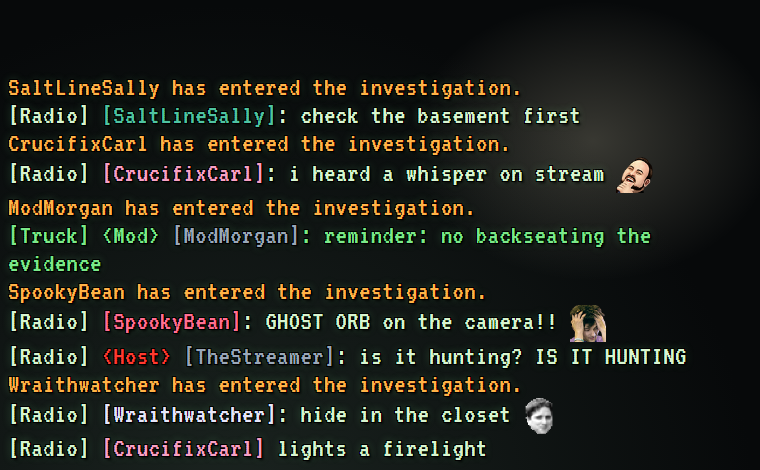
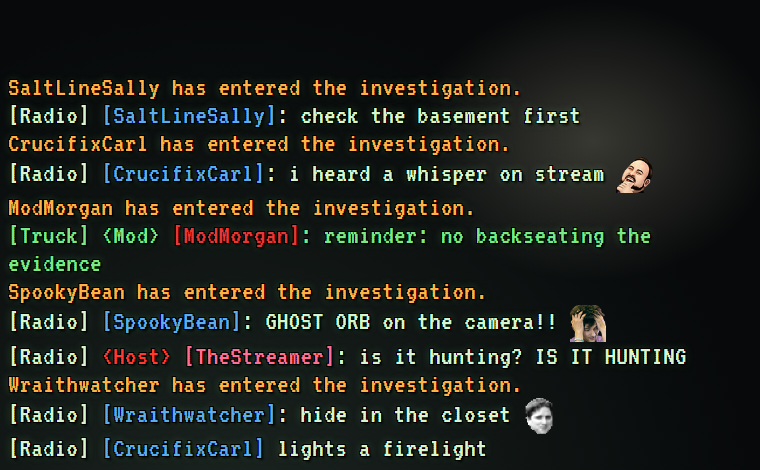
Color names by role and remove the !color command
Streamer pink, moderators red, everyone else blue.

diff --git a/phasmochat.html b/phasmochat.html
@@ -34,8 +34,6 @@ const CONFIG = {
   modPrefix: "[Truck] ",           // prefix on moderator lines (the one watching the cameras)
   joinMessage: "{name} has entered the investigation.",  // system line the first time someone chats ("" = none)
   subMessage: "{name} has signed a contract.",  // system line for a new subscriber or gift recipient ("" = none)
-  colorCommand: "!color",        // chatters type "!color Banshee", "!color the twins", "!color #ff8800" or "!color reset" ("" disables)
-  colorAliases: { twins: "The Twins", mimic: "The Mimic" },  // short names accepted by the command (lowercase key -> ghost)
   testIntervalMs: 2000,          // ?test=1 fake message interval
   colors: {
     chat: "#D8F5D0",               // chat text: pale CRT green-white
@@ -43,19 +41,14 @@ const CONFIG = {
     system: "#FFB347",             // join/sub lines: EMF amber
     gm: "#FF3B30",                 // the broadcaster's tag (gmTag): REC red
     mod: "#7CE88A",                // the moderators' tag (modTag)
-    ghosts: {                      // ghost types -> name colors (picked by hash, or with !color)
-      Spirit: "#BFD9FF", Wraith: "#9AA7B8", Phantom: "#E6E6FA", Poltergeist: "#FFD166",
-      Banshee: "#F7A1C4", Jinn: "#56C3F0", Mare: "#7B6CF6", Revenant: "#C0392B",
-      Shade: "#8E8E8E", Demon: "#FF4136", Yurei: "#A8E6CF", Oni: "#FF7F50",
-      Yokai: "#C77DFF", Hantu: "#7FDBFF", Goryo: "#4FC3A1", Myling: "#E0C3FC",
-      Onryo: "#FF6F91", "The Twins": "#FFC6FF", Raiju: "#FFF275", Obake: "#B5E48C",
-      "The Mimic": "#00F5D4", Moroi: "#9BF6FF", Deogen: "#F15BB5", Thaye: "#D4A373"
-    }
+    streamerName: "#FF6F91",       // broadcaster's name: ghostly pink
+    modName: "#E53935",            // moderators' names: red
+    userName: "#5DADEC",           // everyone else's name: flashlight blue
   }
 };
 // ================================================================
 
-// Overrides from the optional config.js (USER_CONFIG). Objects (colors, ghosts, aliases) merge; arrays replace.
+// Overrides from the optional config.js (USER_CONFIG). Objects (colors) merge; arrays replace.
 function merge(base, over) {
   for (const k in over)
     base[k] = base[k] && typeof base[k] === "object" && !Array.isArray(base[k]) ? merge(base[k], over[k]) : over[k];
@@ -69,32 +62,7 @@ const chat = document.getElementById("chat");
 chat.style.font = `${CONFIG.fontSize}px ${CONFIG.fontFamily}`;
 chat.style.textShadow = "-1px -1px 0 #000, 1px -1px 0 #000, -1px 1px 0 #000, 1px 1px 0 #000, 2px 2px 3px #000, 0 0 8px rgba(124,232,138,.35)";  // outline + faint CRT glow
 
-const classColors = Object.values(CONFIG.colors.ghosts);
 const seen = new Set();
-
-function classColor(name) {
-  let h = 5381;
-  for (const c of name.toLowerCase()) h = ((h << 5) + h + c.charCodeAt(0)) >>> 0;
-  return classColors[h % classColors.length];
-}
-
-// Per-user name colors set via the chat command; kept in OBS's browser storage so they survive restarts.
-// All local-file Browser Sources share one storage, so the key is unique to this overlay (the WoW overlay uses "nameColors").
-let custom = {};
-try { custom = JSON.parse(localStorage.getItem("phasmoNameColors") || "{}"); } catch {}
-
-function colorCommand(login, text) {
-  const cmd = CONFIG.colorCommand.toLowerCase(), t = text.trim().toLowerCase();
-  if (!cmd || (t !== cmd && !t.startsWith(cmd + " "))) return false;
-  let arg = t.slice(cmd.length).trim();
-  arg = (Object.hasOwn(CONFIG.colorAliases, arg) ? CONFIG.colorAliases[arg] : arg).toLowerCase();
-  const cls = Object.entries(CONFIG.colors.ghosts).find(([k]) => k.toLowerCase() === arg);
-  if (/^#[0-9a-f]{6}$/.test(arg)) custom[login] = arg;
-  else if (cls) custom[login] = cls[1];
-  else if (arg === "reset") delete custom[login];
-  try { localStorage.setItem("phasmoNameColors", JSON.stringify(custom)); } catch {}
-  return true;                     // command lines are never shown, valid or not
-}
 
 function span(text, color, cls) {
   const s = document.createElement("span");
@@ -155,7 +123,6 @@ function parseTags(raw) {
 
 function handleChat(tags, login, text) {
   if (CONFIG.ignoredUsers.includes(login.toLowerCase())) return;
-  if (colorCommand(login, text)) return;
   const badges = (tags.badges || "").split(",").map(b => b.split("/")[0]);
   const name = tags["display-name"] || login;
   const isGM = badges.includes("broadcaster");
@@ -171,7 +138,7 @@ function handleChat(tags, login, text) {
   const head = [span(isOfficer ? CONFIG.modPrefix : CONFIG.chatPrefix, color)];
   if (isGM && CONFIG.gmTag) head.push(span(CONFIG.gmTag + " ", CONFIG.colors.gm, "gm"));
   if (isOfficer && CONFIG.modTag) head.push(span(CONFIG.modTag + " ", CONFIG.colors.mod));
-  head.push(span(`[${name}]`, custom[login] || classColor(login), "name"), span(m ? " " : ": ", color));
+  head.push(span(`[${name}]`, isGM ? CONFIG.colors.streamerName : isOfficer ? CONFIG.colors.modName : CONFIG.colors.userName, "name"), span(m ? " " : ": ", color));
   const line = addLine(...head, ...buildMessage(body, m ? "" : tags.emotes, color));
   line.dataset.id = tags.id || "";       // for CLEARMSG (single message deleted)
   line.dataset.login = login;            // for CLEARCHAT (timeout / ban)

diff --git a/config.example.js b/config.example.js
@@ -1,7 +1,7 @@
 // Copy this file to "config.js" (same folder as phasmochat.html) and edit the values you want to change.
 // Delete any line you don't care about and it falls back to the default in phasmochat.html.
 // When you update, replace only phasmochat.html (and config.example.js) and keep your config.js.
-// Advanced options (colors.ghosts, colorAliases, testIntervalMs) can be added here too, see the README.
+// Advanced options (testIntervalMs) can be added here too, see the README.
 const USER_CONFIG = {
   channel: "yourchannel",          // Twitch channel name (lowercase)
   fontSize: 28,                    // px
@@ -14,12 +14,14 @@ const USER_CONFIG = {
   modPrefix: "[Truck] ",           // prefix on moderator lines
   joinMessage: "{name} has entered the investigation.",  // amber line the first time someone chats ("" = none)
   subMessage: "{name} has signed a contract.",  // amber line for a new subscriber or gift recipient ("" = none)
-  colorCommand: "!color",        // chat command for name colors ("" disables it)
   colors: {
     chat: "#D8F5D0",               // chat text
     modText: "#7CE88A",            // moderator text
     system: "#FFB347",             // join/sub lines
     gm: "#FF3B30",                 // the broadcaster's tag (gmTag)
     mod: "#7CE88A",                // the moderators' tag (modTag)
+    streamerName: "#FF6F91",       // the broadcaster's name
+    modName: "#E53935",            // moderators' names
+    userName: "#5DADEC",           // everyone else's name
   },
 };

diff --git a/README.md b/README.md
@@ -8,7 +8,7 @@ A single-file OBS Browser Source that shows your live Twitch chat as Phasmophobi
 
 - **Walkie-talkie lines:** `[Radio] [Name]: message` in pale CRT green-white. Moderators talk from the `[Truck] <Mod>` (the one watching the cameras) in monitor green.
 - **Broadcaster:** `<Host>` tag in REC red.
-- **Name colors are ghost types:** each chatter is hashed to one of the 24 ghost types' colors. Chatters pick their own with `!color Banshee`, `!color the twins` (or `twins`, `mimic`), `!color #ff8800`, or `!color reset`.
+- **Name colors by role:** the streamer's name is pink, moderators' names are red, everyone else is blue.
 - **System lines** in EMF amber: `Name has entered the investigation.` on first message, `Name has signed a contract.` on a sub/gift sub.
 - **Flicker:** lines flicker in and out like the lights during a hunt, instead of a plain fade.
 - **Font:** VT323 (Google Fonts), a CRT terminal face like the truck's monitors. Falls back to Consolas/Courier if offline.
@@ -23,7 +23,7 @@ Everything else matches the WoW overlay: anonymous connection with reconnect, em
 
 ## Configuration
 
-Edit `config.js`; see the comments in `config.example.js`. `colors` and `colors.ghosts` merge, so you can override a single entry. `ignoredUsers` replaces the whole list. After editing, refresh the Browser Source in OBS.
+Edit `config.js`; see the comments in `config.example.js`. `colors` merges, so you can override a single entry. `ignoredUsers` replaces the whole list. After editing, refresh the Browser Source in OBS.
 
 ## More Twitch chat overlays
 
